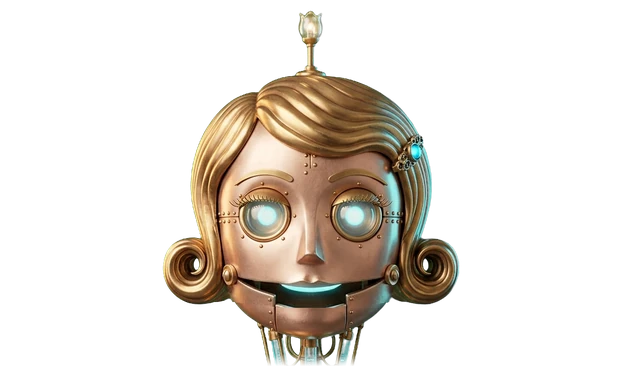
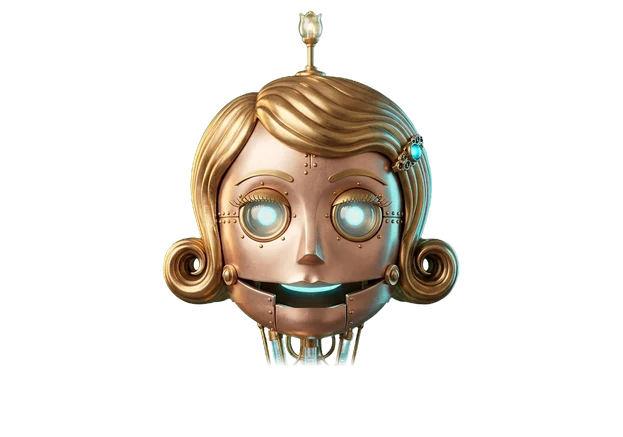
Narrator: her first looks (#145)
Christian's renders, fitted over her own eyes, jaw and neck (hats and bangs keep their
brows): the bob with geometric earrings and the side ponytail with the scrunchie take turns
with her curls at random on each page load; the witch hat (Oct 20-31), the star tiara
(Jul 1-4) and the cable-knit beanie (Jan 2 - Feb 28) wear on their dates, the hats with
the antenna glow off. The head layers now reach the bottom of her renders so a ponytail can
hang past her chin; only the neck stops at the collar.

Claude-Session: https://claude.ai/code/session_0195hiXiVZY5DpQ2CCYEr2vL

Changed region(s): [[0.244, 0.0301, 0.7624, 1.0]]

diff --git a/css/narrator.css b/css/narrator.css
@@ -14,7 +14,7 @@ section.listen.has-nb::before{content:"";position:absolute;left:0;right:0;bottom
   mask-image:linear-gradient(90deg,#000 95%,transparent),linear-gradient(180deg,transparent,#000 6%);mask-composite:intersect}
 /* her head: her chin rests on the torso's collar (the collar's top is 9.8% down the torso). The layers are cut
    wide, so big hair (a perm, a ponytail) has room: her face itself is 30% of the robot's width */
-.nb-head{position:absolute;left:-1.92%;width:103.85%;bottom:79.8%;aspect-ratio:623/366;transform-origin:50% 92.1%;pointer-events:none;z-index:1;transition:rotate .5s cubic-bezier(.3,1.4,.5,1),translate .5s cubic-bezier(.3,1.4,.5,1);
+.nb-head{position:absolute;left:-1.92%;width:103.85%;bottom:57.09%;aspect-ratio:623/437;transform-origin:50% 77.1%;pointer-events:none;z-index:1;transition:rotate .5s cubic-bezier(.3,1.4,.5,1),translate .5s cubic-bezier(.3,1.4,.5,1);
   filter:drop-shadow(0 3px 5px rgba(0,0,0,.35))}
 .nb-head img{position:absolute;inset:0;width:100%;height:100%;display:block}
 .nb-jaw,.nb-jaw-s{will-change:transform}
@@ -23,7 +23,7 @@ section.listen.has-nb::before{content:"";position:absolute;left:0;right:0;bottom
 .nb.blink .nb-lids{opacity:1;clip-path:none}
 /* the hints: the head turns toward the Play button, and the antenna bulb glows and flickers */
 .nb.look .nb-head{rotate:7deg;translate:2.4% 0}
-.nb-bulb{position:absolute;left:49.8%;top:6%;width:12.5%;aspect-ratio:1;translate:-50% -50%;border-radius:50%;pointer-events:none;opacity:0;transition:opacity .15s;
+.nb-bulb{position:absolute;left:49.8%;top:5.03%;width:12.5%;aspect-ratio:1;translate:-50% -50%;border-radius:50%;pointer-events:none;opacity:0;transition:opacity .15s;
   background:radial-gradient(circle,rgba(235,255,255,.95) 0,rgba(130,240,255,.6) 22%,rgba(80,220,255,0) 68%);mix-blend-mode:screen}
 .nb.nb-nobulb .nb-bulb{display:none}   /* a look whose hat or bow covers the antenna */
 .nb.glow .nb-bulb{opacity:1;animation:nb-flick .36s steps(2,jump-none) infinite}

diff --git a/index.html b/index.html
@@ -24,7 +24,7 @@
 <link rel="stylesheet" href="css/play-inline.css?v=1794600000">
 <link rel="stylesheet" href="css/logo.css?v=11">
 <link rel="stylesheet" href="css/lake.css?v=1">
-<link rel="stylesheet" href="css/narrator.css?v=9">
+<link rel="stylesheet" href="css/narrator.css?v=10">
 <script>/* The lake closed by the link (nlake) or last time (js/lake.js): start with the clean top, no flash of the scene. */try{var w=decodeURIComponent(location.search).toLowerCase(),n=/(^|[?+&,;\s])nlake([+&,;\s=]|$)/.test(w),y=/(^|[?+&,;\s])ylake([+&,;\s=]|$)/.test(w);if(n||(!y&&localStorage.getItem("cg-lake")==="0"))document.documentElement.classList.add("lake-off")}catch(e){}</script>
 <link rel="stylesheet" href="css/footer.css?v=1793360000">
 <script>/* Night links (?night, ?nightmode, ?darkmode) open with the page already dark: no white flash, no fade. */
@@ -256,7 +256,7 @@ document.documentElement.classList.add('night-page');})();</script>
 <script src="js/audio-rules.js?v=1" defer></script>
 <script src="js/play-inline.js?v=1794600000" defer></script>
 <script src="js/lake.js?v=3" defer></script>
-<script src="js/narrator.js?v=8" defer></script>
+<script src="js/narrator.js?v=9" defer></script>
 <!-- About: the name in the header opens the résumé (about/) as a modal. -->
 <script src="js/about.js?v=1793460000" defer></script>
 <!-- Footer: chipmunks, trail log (waits until the footer is near the screen). -->

diff --git a/js/narrator.js b/js/narrator.js
@@ -16,7 +16,7 @@
    - Now and then it blinks. With reduced motion it stays still, and only the mouth moves. */
 (function () {
   'use strict';
-  var A = '/assets/narrator/', V = '?v=8', DROP = 0.0535;   // the chin plate's drop, as a share of the head layer's height (the side plates go half as far)
+  var A = '/assets/narrator/', V = '?v=9', DROP = 0.0448;   // the chin plate's drop, as a share of the head layer's height (the side plates go half as far)
   var D = 193 / 24, IDLE = 0, GESTURES = [{ f: 1, r: 2 }, { f: 3, r: 4 }];   // the parts of narrator.mp4: forward and backwards copies
   // the hints, parts 5 to 7, with what the head does when (seconds into the part): look toward Play, wink, the bulb glows
   var HINTS = [
